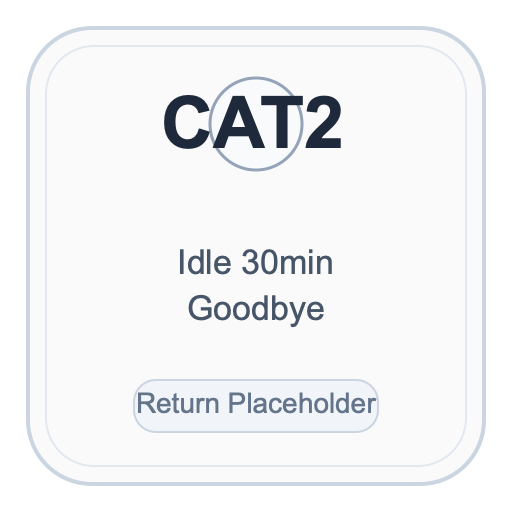
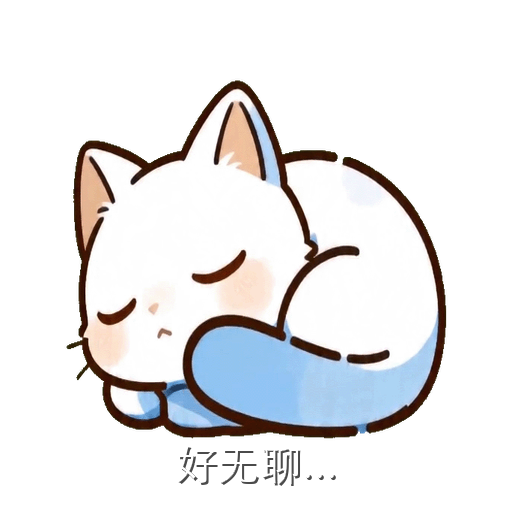
feat(idle): replace placeholders with GIF-based tier images and strip all CSS effects
将占位图片替换为基于 sleep_cat_wait3.gif 的新图片，并为各层级添加中文描述文字：
- CAT1 非点击态"摸摸我~"，点击态"我在这!"
- CAT2 非点击态"好无聊..."，点击态"还在吗?"
- CAT3 非点击态原始无文字 GIF，点击态"别吵..."
- 删除旧的 SVG 占位文件和 cat-idle-cat3.png

彻底清除所有按钮视觉效果：
- CSS 移除所有 border、background、box-shadow、backdrop-filter、::before 伪元素
- 移除 vrm-ui-buttons.js 独立注入的呼吸灯动画
- 移除 common-ui-hud.js 中 #live2d-btn-return 呼吸灯样式
- 悬停动效改为图片切换（非点击态↔点击态），不再使用 CSS 变换
- 删除所有 CAT3 特判代码

diff --git a/static/avatar-ui-buttons.js b/static/avatar-ui-buttons.js
@@ -220,9 +220,24 @@ function _getNekoIdleReturnAssetUrl(tier) {
         return `/static/assets/neko-idle/cat-idle-cat2.png${versionSuffix}`;
     }
     if (normalizedTier === _NEKO_IDLE_TIER_CAT3) {
-        return `/static/assets/neko-idle/cat-idle-cat3.png${versionSuffix}`;
+        return `/static/assets/neko-idle/cat-idle-cat3.gif${versionSuffix}`;
     }
     return `/static/assets/neko-idle/cat-idle-cat1.png${versionSuffix}`;
+}
+
+function _getNekoIdleReturnClickAssetUrl(tier) {
+    const normalizedTier = _normalizeNekoIdleReturnTier(tier);
+    const versionSuffix = _NEKO_IDLE_RETURN_ASSET_VERSION
+        ? `?v=${encodeURIComponent(_NEKO_IDLE_RETURN_ASSET_VERSION)}`
+        : '';
+
+    if (normalizedTier === _NEKO_IDLE_TIER_CAT2) {
+        return `/static/assets/neko-idle/cat-idle-cat2-click.png${versionSuffix}`;
+    }
+    if (normalizedTier === _NEKO_IDLE_TIER_CAT3) {
+        return `/static/assets/neko-idle/cat-idle-cat3-click.png${versionSuffix}`;
+    }
+    return `/static/assets/neko-idle/cat-idle-cat1-click.png${versionSuffix}`;
 }
 
 function _applyNekoIdleReturnPresentation(button, tier) {
@@ -684,17 +699,17 @@ const AvatarButtonMixin = {
             });
 
             returnBtn.addEventListener('mouseenter', () => {
-                returnBtn.style.transform = 'translateY(-2px) scale(1.03)';
-                returnBtn.style.boxShadow = '0 16px 28px rgba(17, 24, 39, 0.18), 0 5px 12px rgba(17, 24, 39, 0.14)';
-                returnArt.style.transform = 'scale(1.02)';
-                returnArt.style.filter = 'brightness(1.03) saturate(1.02)';
+                const tier = returnBtn.getAttribute('data-neko-idle-tier');
+                if (tier && tier !== 'none') {
+                    returnArt.src = _getNekoIdleReturnClickAssetUrl(tier);
+                }
             });
 
             returnBtn.addEventListener('mouseleave', () => {
-                returnBtn.style.transform = '';
-                returnBtn.style.boxShadow = '';
-                returnArt.style.transform = '';
-                returnArt.style.filter = '';
+                const tier = returnBtn.getAttribute('data-neko-idle-tier');
+                if (tier && tier !== 'none') {
+                    returnArt.src = _getNekoIdleReturnAssetUrl(tier);
+                }
             });
 
             returnBtn.addEventListener('click', (e) => {
@@ -806,28 +821,7 @@ const AvatarButtonMixin = {
          * 添加返回按钮呼吸灯动画
          */
         ManagerPrototype._addReturnButtonBreathingAnimation = function() {
-            const opts = this._avatarButtonOptions;
-            if (document.getElementById(opts.returnBreathingStyleId)) return;
-
-            const style = document.createElement('style');
-            style.id = opts.returnBreathingStyleId;
-            style.textContent = `
-                @keyframes ${this._avatarPrefix}ReturnButtonBreathing {
-                    0%, 100% {
-                        box-shadow: 0 0 8px rgba(68, 183, 254, 0.6), 0 2px 4px rgba(0,0,0,0.04), 0 8px 16px rgba(0,0,0,0.08);
-                    }
-                    50% {
-                        box-shadow: 0 0 18px rgba(68, 183, 254, 1), 0 2px 4px rgba(0,0,0,0.04), 0 8px 16px rgba(0,0,0,0.08);
-                    }
-                }
-                #${opts.returnBtnId} {
-                    animation: ${this._avatarPrefix}ReturnButtonBreathing 2s ease-in-out infinite;
-                }
-                #${opts.returnBtnId}:hover {
-                    animation: none;
-                }
-            `;
-            document.head.appendChild(style);
+            // No-op: breathing animation removed, images provide visual identity.
         };
 
         /**

diff --git a/static/css/index.css b/static/css/index.css
@@ -361,53 +361,14 @@ body.neko-game-active [id$="-lock-icon"] {
     --neko-idle-return-size: clamp(104px, 16vw, 136px);
     width: var(--neko-idle-return-size);
     height: var(--neko-idle-return-size);
-    border-radius: 28px;
-    overflow: hidden;
-    border: 1px solid rgba(255, 255, 255, 0.9);
-    background:
-        linear-gradient(180deg, rgba(255, 255, 255, 0.96), rgba(247, 249, 252, 0.94));
-    box-shadow:
-        0 12px 24px rgba(17, 24, 39, 0.14),
-        0 4px 10px rgba(17, 24, 39, 0.1);
-    backdrop-filter: blur(10px);
-    -webkit-backdrop-filter: blur(10px);
-    transition: transform 0.16s ease, box-shadow 0.16s ease, filter 0.16s ease;
-    isolation: isolate;
 }
 
 .neko-idle-return-btn[data-neko-idle-tier="cat2"] {
     --neko-idle-return-size: clamp(96px, 14vw, 122px);
-    box-shadow:
-        0 10px 20px rgba(51, 65, 85, 0.15),
-        0 3px 8px rgba(51, 65, 85, 0.1);
 }
 
 .neko-idle-return-btn[data-neko-idle-tier="cat3"] {
     --neko-idle-return-size: clamp(88px, 13vw, 112px);
-    box-shadow:
-        0 8px 18px rgba(71, 85, 105, 0.16),
-        0 2px 6px rgba(71, 85, 105, 0.12);
-    filter: saturate(0.96) brightness(0.985);
-}
-
-.neko-idle-return-btn::before {
-    content: '';
-    position: absolute;
-    inset: 8px;
-    border-radius: 22px;
-    border: 1px solid rgba(148, 163, 184, 0.18);
-    pointer-events: none;
-}
-
-.neko-idle-return-btn:active {
-    transform: translateY(0) scale(0.985);
-}
-
-.neko-idle-return-button-container[data-dragging="true"] .neko-idle-return-btn {
-    transform: none !important;
-    box-shadow:
-        0 14px 30px rgba(17, 24, 39, 0.18),
-        0 6px 14px rgba(17, 24, 39, 0.12);
 }
 
 .neko-idle-return-art {
@@ -421,7 +382,6 @@ body.neko-game-active [id$="-lock-icon"] {
 @media (max-width: 768px) {
     .neko-idle-return-btn {
         --neko-idle-return-size: clamp(96px, 26vw, 120px);
-        border-radius: 24px;
     }
 
     .neko-idle-return-btn[data-neko-idle-tier="cat2"] {
@@ -430,11 +390,6 @@ body.neko-game-active [id$="-lock-icon"] {
 
     .neko-idle-return-btn[data-neko-idle-tier="cat3"] {
         --neko-idle-return-size: clamp(82px, 22vw, 100px);
-    }
-
-    .neko-idle-return-btn::before {
-        inset: 6px;
-        border-radius: 18px;
     }
 }
 

diff --git a/static/vrm-ui-buttons.js b/static/vrm-ui-buttons.js
@@ -878,35 +878,7 @@ VRMManager.prototype._setupReturnButtonDrag = function (returnButtonContainer) {
  * 添加"请她回来"按钮的呼吸灯动画效果（与 Live2D 保持一致）
  */
 VRMManager.prototype._addReturnButtonBreathingAnimation = function () {
-    // 检查是否已经添加过样式
-    const opts = this._avatarButtonOptions;
-    if (document.getElementById(opts.returnBreathingStyleId)) {
-        return;
-    }
-
-    const style = document.createElement('style');
-    style.id = opts.returnBreathingStyleId;
-    style.textContent = `
-        /* 请她回来按钮呼吸特效 */
-        @keyframes vrmReturnButtonBreathing {
-            0%, 100% {
-                box-shadow: 0 0 8px rgba(68, 183, 254, 0.6), 0 2px 4px rgba(0, 0, 0, 0.04), 0 8px 16px rgba(0, 0, 0, 0.08);
-            }
-            50% {
-                box-shadow: 0 0 18px rgba(68, 183, 254, 1), 0 2px 4px rgba(0, 0, 0, 0.04), 0 8px 16px rgba(0, 0, 0, 0.08);
-            }
-        }
-        
-        #vrm-btn-return {
-            animation: vrmReturnButtonBreathing 2s ease-in-out infinite;
-            will-change: box-shadow;
-        }
-        
-        #vrm-btn-return:hover {
-            animation: none;
-        }
-    `;
-    document.head.appendChild(style);
+    // No-op: breathing animation removed, images provide visual identity.
 };
 
 /**

diff --git a/static/common-ui-hud.js b/static/common-ui-hud.js
@@ -1611,25 +1611,6 @@ window.AgentHUD._setupDragging = function (hud) {
             100% { transform: translateX(-100%); }
         }
         
-        /* 请她回来按钮呼吸特效 */
-        @keyframes returnButtonBreathing {
-            0%, 100% {
-                box-shadow: 0 0 8px rgba(68, 183, 254, 0.6), 0 2px 4px rgba(0, 0, 0, 0.04), 0 8px 16px rgba(0, 0, 0, 0.08);
-            }
-            50% {
-                box-shadow: 0 0 18px rgba(68, 183, 254, 1), 0 2px 4px rgba(0, 0, 0, 0.04), 0 8px 16px rgba(0, 0, 0, 0.08);
-            }
-        }
-        
-        #live2d-btn-return {
-            animation: returnButtonBreathing 2s ease-in-out infinite;
-            will-change: box-shadow;
-        }
-        
-        #live2d-btn-return:hover {
-            animation: none;
-        }
-        
         #agent-task-hud::-webkit-scrollbar {
             width: 4px;
         }

diff --git a/tests/unit/test_avatar_return_button_idle_tiers_static.py b/tests/unit/test_avatar_return_button_idle_tiers_static.py
@@ -6,17 +6,30 @@ from main_routers import pages_router
 PROJECT_ROOT = Path(__file__).resolve().parents[2]
 AVATAR_UI_BUTTONS_PATH = PROJECT_ROOT / "static" / "avatar-ui-buttons.js"
 INDEX_CSS_PATH = PROJECT_ROOT / "static" / "css" / "index.css"
+CAT1_ASSET_PATH = PROJECT_ROOT / "static" / "assets" / "neko-idle" / "cat-idle-cat1.png"
+CAT1_CLICK_ASSET_PATH = PROJECT_ROOT / "static" / "assets" / "neko-idle" / "cat-idle-cat1-click.png"
 CAT2_ASSET_PATH = PROJECT_ROOT / "static" / "assets" / "neko-idle" / "cat-idle-cat2.png"
-CAT3_ASSET_PATH = PROJECT_ROOT / "static" / "assets" / "neko-idle" / "cat-idle-cat3.png"
+CAT2_CLICK_ASSET_PATH = PROJECT_ROOT / "static" / "assets" / "neko-idle" / "cat-idle-cat2-click.png"
+CAT3_CLICK_ASSET_PATH = PROJECT_ROOT / "static" / "assets" / "neko-idle" / "cat-idle-cat3-click.png"
+CAT3_GIF_ASSET_PATH = PROJECT_ROOT / "static" / "assets" / "neko-idle" / "cat-idle-cat3.gif"
 
 
 def test_return_button_idle_tier_assets_are_mapped_in_source():
     source = AVATAR_UI_BUTTONS_PATH.read_text(encoding="utf-8")
 
+    # Non-click states
+    assert "/static/assets/neko-idle/cat-idle-cat1.png" in source
     assert "/static/assets/neko-idle/cat-idle-cat2.png" in source
-    assert "/static/assets/neko-idle/cat-idle-cat3.png" in source
+    assert "/static/assets/neko-idle/cat-idle-cat3.gif" in source
+    assert '_NEKO_IDLE_TIER_CAT1' in source
     assert '_NEKO_IDLE_TIER_CAT2' in source
     assert '_NEKO_IDLE_TIER_CAT3' in source
+
+    # Click states
+    assert "/static/assets/neko-idle/cat-idle-cat1-click.png" in source
+    assert "/static/assets/neko-idle/cat-idle-cat2-click.png" in source
+    assert "/static/assets/neko-idle/cat-idle-cat3-click.png" in source
+    assert '_getNekoIdleReturnClickAssetUrl' in source
 
 
 def test_return_button_idle_tier_styles_are_present():
@@ -27,7 +40,32 @@ def test_return_button_idle_tier_styles_are_present():
 
 
 def test_return_button_idle_tier_assets_are_version_tracked():
-    assert CAT2_ASSET_PATH in pages_router._YUI_GUIDE_ASSET_VERSION_PATHS
-    assert CAT3_ASSET_PATH in pages_router._YUI_GUIDE_ASSET_VERSION_PATHS
-    assert CAT2_ASSET_PATH.is_file()
-    assert CAT3_ASSET_PATH.is_file()
+    for path in (CAT1_ASSET_PATH, CAT1_CLICK_ASSET_PATH,
+                 CAT2_ASSET_PATH, CAT2_CLICK_ASSET_PATH,
+                 CAT3_CLICK_ASSET_PATH, CAT3_GIF_ASSET_PATH):
+        assert path in pages_router._YUI_GUIDE_ASSET_VERSION_PATHS
+        assert path.is_file()
+
+
+def test_no_box_shadow_or_border_in_base_return_btn_css():
+    source = INDEX_CSS_PATH.read_text(encoding="utf-8")
+
+    assert 'box-shadow' not in source or 'neko-idle-return-btn' not in _extract_neko_block(source, 'box-shadow')
+    assert 'border' not in source or 'neko-idle-return-btn' not in _extract_neko_block(source, 'border')
+    assert 'backdrop-filter' not in source or 'neko-idle-return-btn' not in _extract_neko_block(source, 'backdrop-filter')
+
+
+def _extract_neko_block(source, keyword):
+    lines = source.splitlines()
+    in_neko = False
+    result = []
+    for line in lines:
+        if '.neko-idle-return' in line:
+            in_neko = True
+        elif in_neko and line.strip() == '}':
+            in_neko = False
+            if any(keyword in l for l in result):
+                return '.neko-idle-return-btn'
+        if in_neko:
+            result.append(line)
+    return ''

diff --git a/main_routers/pages_router.py b/main_routers/pages_router.py
@@ -35,8 +35,11 @@ _YUI_GUIDE_ASSET_VERSION_PATHS = (
     _PROJECT_ROOT / "static/app-auto-goodbye.js",
     _PROJECT_ROOT / "static/avatar-ui-buttons.js",
     _PROJECT_ROOT / "static/assets/neko-idle/cat-idle-cat1.png",
+    _PROJECT_ROOT / "static/assets/neko-idle/cat-idle-cat1-click.png",
     _PROJECT_ROOT / "static/assets/neko-idle/cat-idle-cat2.png",
-    _PROJECT_ROOT / "static/assets/neko-idle/cat-idle-cat3.png",
+    _PROJECT_ROOT / "static/assets/neko-idle/cat-idle-cat2-click.png",
+    _PROJECT_ROOT / "static/assets/neko-idle/cat-idle-cat3-click.png",
+    _PROJECT_ROOT / "static/assets/neko-idle/cat-idle-cat3.gif",
 )
 _STATIC_ASSET_CACHE_TTL = 30.0
 _static_asset_version_cache: tuple[float, str] = (0.0, "0")